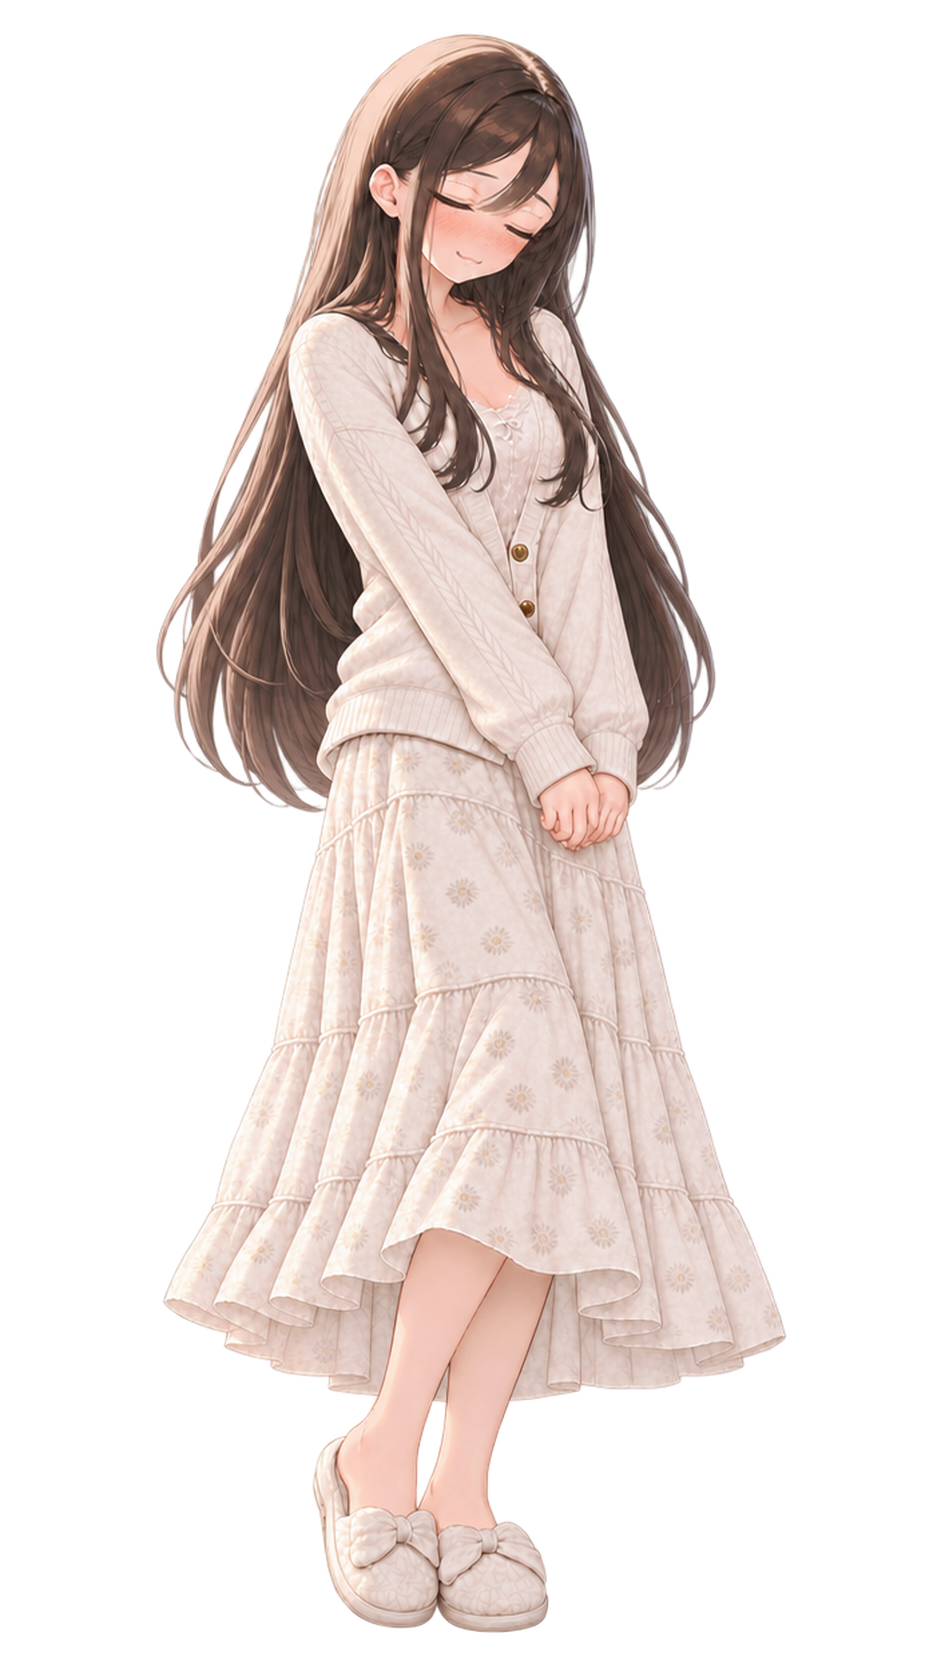
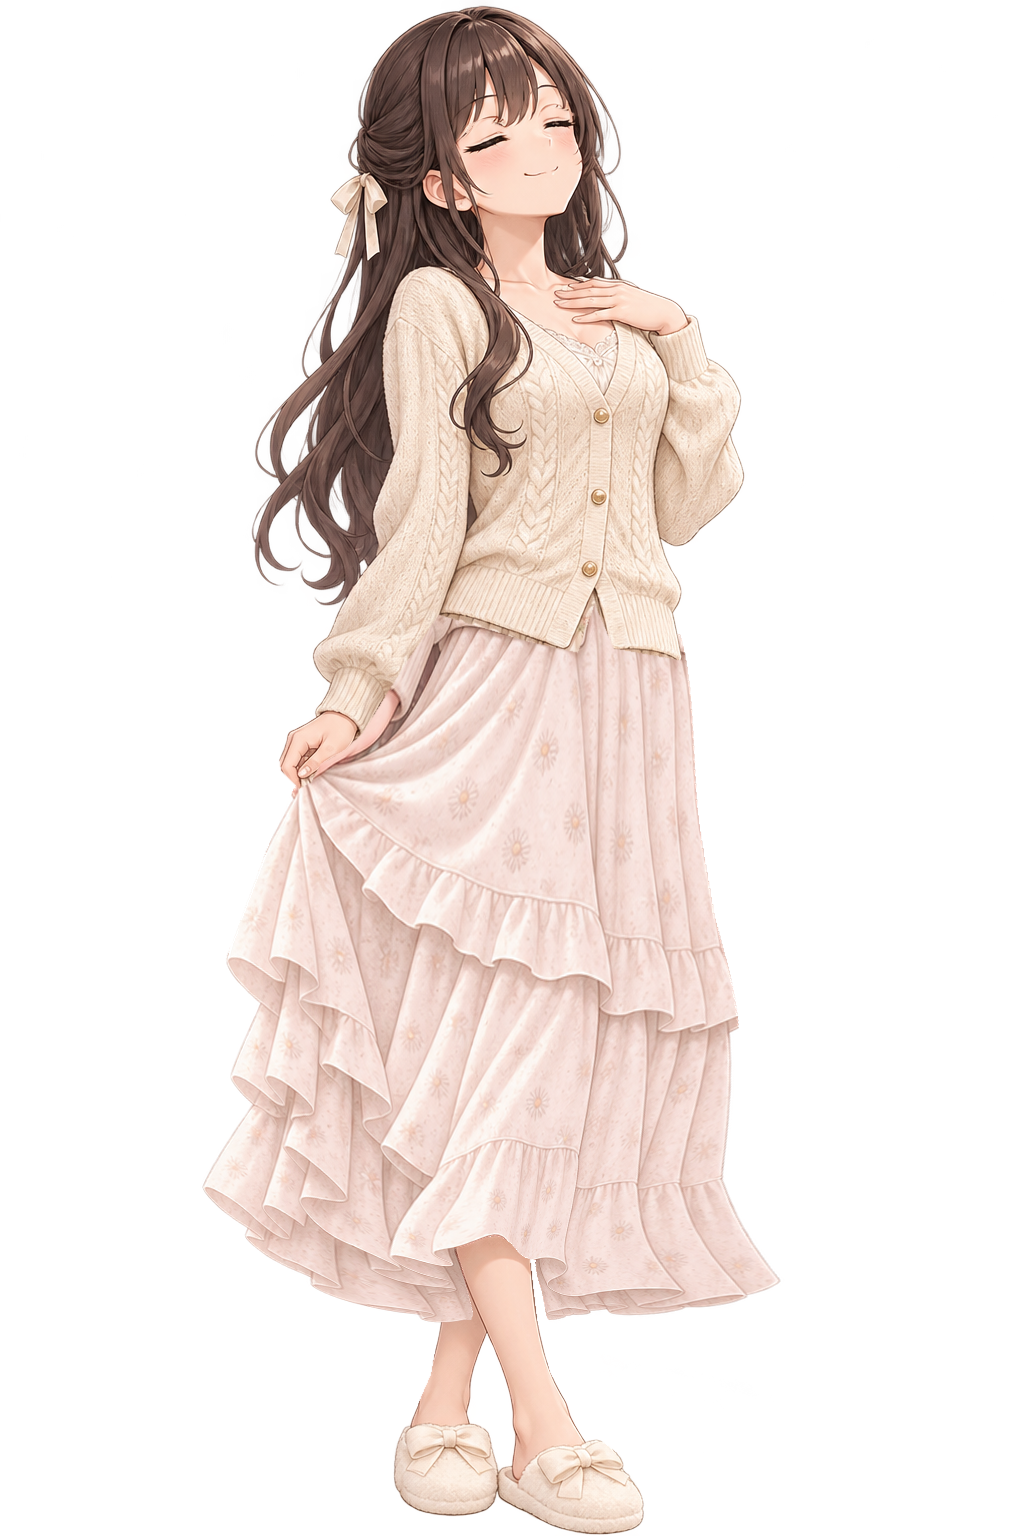
Update Mio proud expression artwork and framing metadata

Changed region(s): [[0.1541, 0.0, 0.8321, 1.0]]

diff --git a/mio/about/index.html b/mio/about/index.html
@@ -366,7 +366,7 @@
                         data-expression="proud"
                         data-expression-src="../../asset/mio_illustration_live_proud_open.png"
                         data-expression-closed="../../asset/mio_illustration_live_proud_closed.png"
-                        data-expression-width="941" data-expression-height="1672"
+                        data-expression-width="1024" data-expression-height="1536"
                         data-expression-alt="Mio proud expression"
                         aria-pressed="false"
                         data-i18n="mio.presence.proud"
